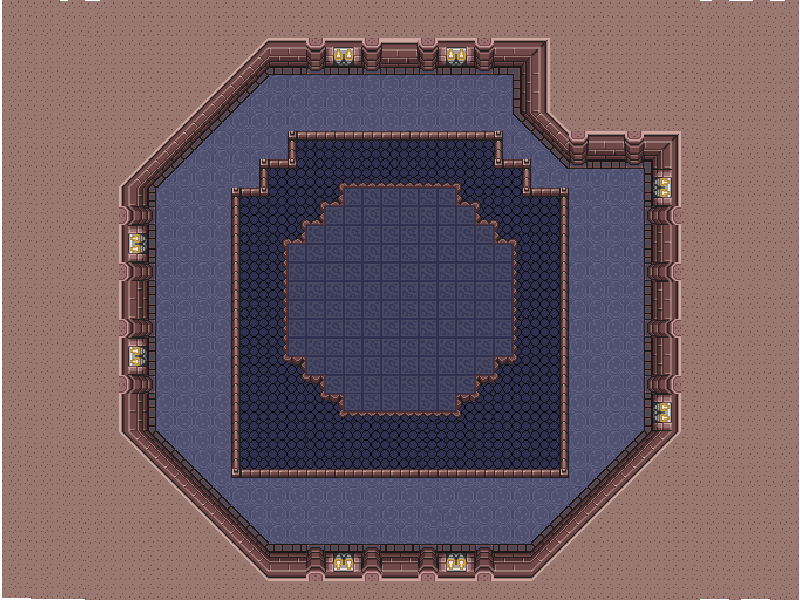
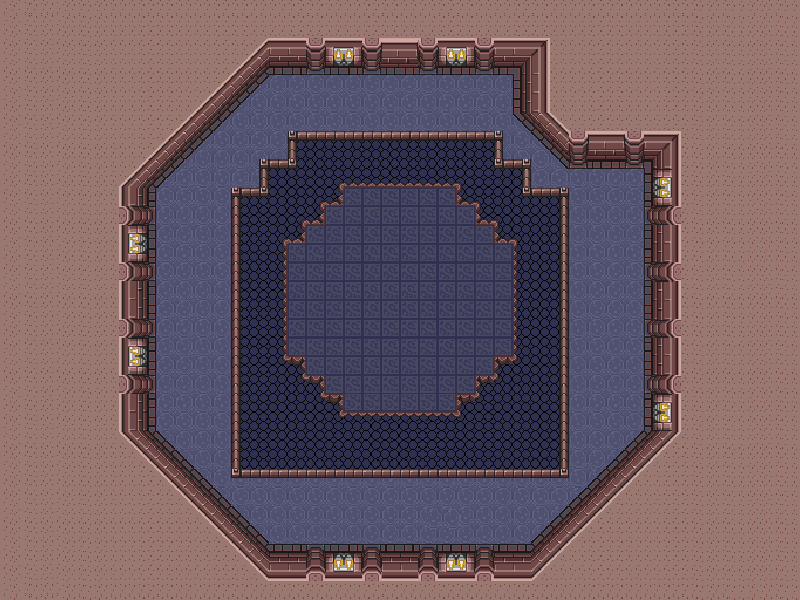
Adicionado 20170607 003 - Criado metodos separando logica do desenho

Changed region(s): [[0.875, 0.0, 1.0, 1.0], [0.0, 0.0, 0.125, 1.0], [0.0938, 0.0, 0.125, 0.03]]

diff --git a/src/Main.java b/src/Main.java
@@ -17,55 +17,29 @@ public class Main extends GraphicApplication implements MouseObserver {
 	public GameObject heroObject, containerObject;
 	public Maze maze;
 	public Room room;
+	public Item item[] = new Item[2];
 	
 	@Override
 	protected void setup() {
-		int randomRoomNumber;
-		int randomColor;
 		maze = new Maze();
 		room = new Room();
-
-		//ARQUIVO QUE CONTEM A CONFIGURACAO DE SALAS DO LABIRINTO
-		pathToFileDungeonMap = "files/Labirinto.txt";
-		pathToFileContainer = "img/square.png";
 		
-		//IMAGENS USADAS NOS SPRITES
-		pathToFileHero = "img/hero-noitem.png";
-		pathToFileDoor = "img/dungeon-door.png";
-		pathToFileKey = "img/key.png";
-		
+		//ARQUIVOS INICIAIS DE CONFIGURACAO
+		initialFiles();
 		
 		//TITULO DA TELA DO JOGO E RESOLUCAO
 		setTitle("MazeGame");
 		setResolution(Resolution.HIGHRES);
 		
-		//CRIACAO DO SPRITE DO HEROI
-		containerObject = GameObject.createObject(pathToFileContainer, 0, 525, Color.BLUE);
-		heroObject = GameObject.createObject(pathToFileHero, 375, 250, Color.BLUE);
-		
-		//CRIACAO DE SPRITES DAS PORTAS E ESCADAS (A.K.A SAIDAS) NORTE-SUL-OESTE-LESTE-ACIMA-ABAIXO (NESTA ORDEM)
-		doorObject[0] = GameObject.createObject(pathToFileDoor, 368, 10, Color.BLUE);
-		doorObject[1] = GameObject.createObject(pathToFileDoor, 368, 522, Color.BLUE);
-		doorObject[2] = GameObject.createObject(pathToFileDoor, 647, 254, Color.BLUE);
-		doorObject[3] = GameObject.createObject(pathToFileDoor, 93, 254, Color.BLUE);
-		doorObject[4] = GameObject.createObject(pathToFileDoor, 470, 150, Color.BLUE);
-		doorObject[5] = GameObject.createObject(pathToFileDoor, 230, 415, Color.BLUE);
-		
-		//CRIACAO DE SPRITES DAS CHAVES
-		keyObject[0] = GameObject.createObject(pathToFileKey, 230, 145, Color.BLUE);
-		keyObject[1] = GameObject.createObject(pathToFileKey, 600, 200, Color.BLUE);
-		keyObject[2] = GameObject.createObject(pathToFileKey, 350, 350, Color.BLUE);
-		keyObject[3] = GameObject.createObject(pathToFileKey, 600, 400, Color.BLUE);
-		
 		//INICIA O LABIRINTO
 		maze.createMaze(pathToFileDungeonMap);
 		
+		//CRIA OS OBJETOS DO LABIRINTO
+		createObjects();
+		
 		//POSICAO ALEATORIA INICIAL DAS CHAVES 
-		for (int i = 0; i < 4; i++) {
-			//randomRoomNumber = (int)(Math.random()*(31-1));
-			randomRoomNumber = 10;
-			randomColor = (int)(Math.random()*(3-0));
-			key[i] = maze.createKeys(randomRoomNumber, randomColor, keyObject[i], true);
+		for (int i = 0; i < key.length; i++) {
+			key[i] = randomKeys(i);
 		}
 		
 		//SALA INICIAL DO LABIRINTO EM MODO ALEATORIO
@@ -89,31 +63,24 @@ public class Main extends GraphicApplication implements MouseObserver {
 		containerObject.draw(canvas);
 		canvas.putText(10, 0, 30, "Sala Numero: "+roomNumber);
 		
-		if (room.getNorthNumber() >= 0) {
-			door[0] = maze.createDoor(room.getNorthNumber(), doorObject[0]);
+		if (hasNorthDoor()) {
 			door[0].getObj().draw(canvas);
 		}
-		if (room.getSouthNumber() >= 0) {
-			door[1] = maze.createDoor(room.getSouthNumber(), doorObject[1]);
+		if (hasSouthDoor()) {
 			door[1].getObj().draw(canvas);
 		}
-		if (room.getEastNumber() >= 0) {
-			door[2] = maze.createDoor(room.getEastNumber(), doorObject[2]);
+		if (hasEastDoor()) {
 			door[2].getObj().draw(canvas);
 		}
-		if (room.getWestNumber() >= 0) {
-			door[3] = maze.createDoor(room.getWestNumber(), doorObject[3]);
+		if (hasWestDoor()) {
 			door[3].getObj().draw(canvas);
 		}
-		if (room.getUpNumber() >= 0) {
-			door[4] = maze.createDoor(room.getUpNumber(), doorObject[4]);
+		if (hasUpDoor()) {
 			door[4].getObj().draw(canvas);
 		}
-		if (room.getDownNumber() >= 0) {
-			door[5] = maze.createDoor(room.getDownNumber(), doorObject[5]);
+		if (hasDownDoor()) {
 			door[5].getObj().draw(canvas);
 		}
-		
 		for (int i = 0; i < key.length; i++) {
 			if (roomNumber == key[i].getRoomNumber() && key[i].isItemShow()) {
 				key[i].getObj().draw(canvas);
@@ -140,7 +107,6 @@ public class Main extends GraphicApplication implements MouseObserver {
 				}
 			}
 		}
-		
 		//VERIFICACAO DO CLIQUE NA CHAVE
 		for (int i = 0; i < key.length; i++) {
 			if (key[i].getObj().clicked(p) && key[i].isItemShow()) {
@@ -149,5 +115,84 @@ public class Main extends GraphicApplication implements MouseObserver {
 				redraw();
 			}
 		}
+	}
+	// <-- CONFIGURACAO DO LABIRINTO -->
+	private void initialFiles() {
+		//ARQUIVO QUE CONTEM A CONFIGURACAO DE SALAS DO LABIRINTO
+		pathToFileDungeonMap = "files/Labirinto.txt";
+		//IMAGENS USADAS NOS SPRITES
+		pathToFileHero = "img/hero-noitem.png";
+		pathToFileDoor = "img/dungeon-door.png";
+		pathToFileKey = "img/key.png";
+		pathToFileContainer = "img/square.png";
+	}
+	
+	// <-- LOGICA DO LABIRINTO -->
+	protected void createObjects(){
+		//CRIACAO DO SPRITE DO HEROI
+		containerObject = GameObject.createObject(pathToFileContainer, 0, 525, Color.BLUE);
+		heroObject = GameObject.createObject(pathToFileHero, 375, 250, Color.BLUE);		
+		//CRIACAO DE SPRITES DAS PORTAS E ESCADAS (A.K.A SAIDAS) NORTE-SUL-OESTE-LESTE-ACIMA-ABAIXO (NESTA ORDEM)
+		doorObject[0] = GameObject.createObject(pathToFileDoor, 368, 10, Color.BLUE);
+		doorObject[1] = GameObject.createObject(pathToFileDoor, 368, 522, Color.BLUE);
+		doorObject[2] = GameObject.createObject(pathToFileDoor, 647, 254, Color.BLUE);
+		doorObject[3] = GameObject.createObject(pathToFileDoor, 93, 254, Color.BLUE);
+		doorObject[4] = GameObject.createObject(pathToFileDoor, 470, 150, Color.BLUE);
+		doorObject[5] = GameObject.createObject(pathToFileDoor, 230, 415, Color.BLUE);
+		//CRIACAO DE SPRITES DAS CHAVES
+		keyObject[0] = GameObject.createObject(pathToFileKey, 230, 145, Color.BLUE);
+		keyObject[1] = GameObject.createObject(pathToFileKey, 600, 200, Color.BLUE);
+		keyObject[2] = GameObject.createObject(pathToFileKey, 350, 350, Color.BLUE);
+		keyObject[3] = GameObject.createObject(pathToFileKey, 600, 400, Color.BLUE);
+	}
+	protected Key randomKeys(int i) {
+		Key k = new Key();
+		//int randomRoomNumber = (int)(Math.random()*(31-1));
+		int randomRoomNumber = 10;
+		int randomColor = (int)(Math.random()*(3-0));
+		k = maze.createKeys(randomRoomNumber, randomColor, keyObject[i], true);
+		return k;
+	}
+	private boolean hasNorthDoor(){
+		if (room.getNorthNumber() >= 0) {
+			door[0] = maze.createDoor(room.getNorthNumber(), doorObject[0]);
+			return true;
+		}
+		return false;
+	}
+	private boolean hasSouthDoor(){
+		if (room.getSouthNumber() >= 0) {
+			door[1] = maze.createDoor(room.getSouthNumber(), doorObject[1]);
+			return true;
+		}
+		return false;
+	}
+	private boolean hasEastDoor(){
+		if (room.getEastNumber() >= 0) {
+			door[2] = maze.createDoor(room.getEastNumber(), doorObject[2]);
+			return true;
+		}
+		return false;
+	}
+	private boolean hasWestDoor(){
+		if (room.getWestNumber() >= 0) {
+			door[3] = maze.createDoor(room.getWestNumber(), doorObject[3]);
+			return true;
+		}
+		return false;
+	}
+	private boolean hasUpDoor(){
+		if (room.getUpNumber() >= 0) {
+			door[4] = maze.createDoor(room.getUpNumber(), doorObject[4]);
+			return true;
+		}
+		return false;
+	}
+	private boolean hasDownDoor(){
+		if (room.getDownNumber() >= 0) {
+			door[5] = maze.createDoor(room.getDownNumber(), doorObject[5]);
+			return true;
+		}
+		return false;
 	}
 }
